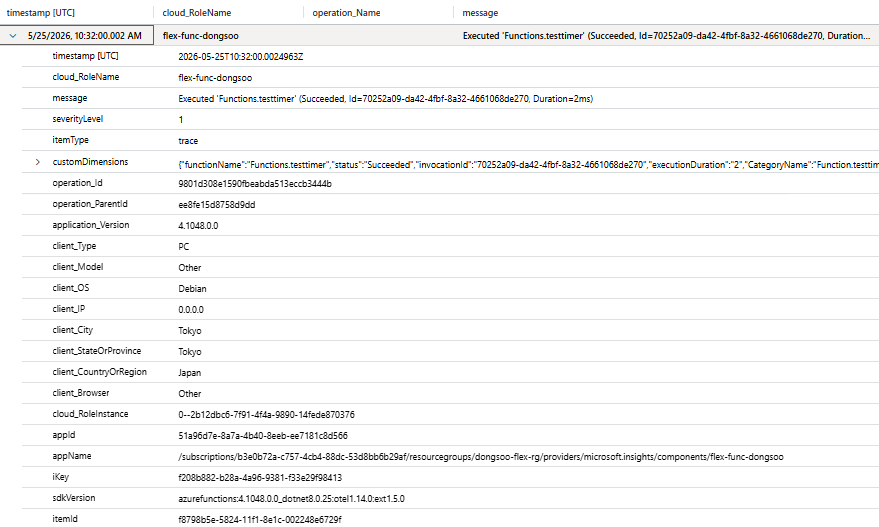
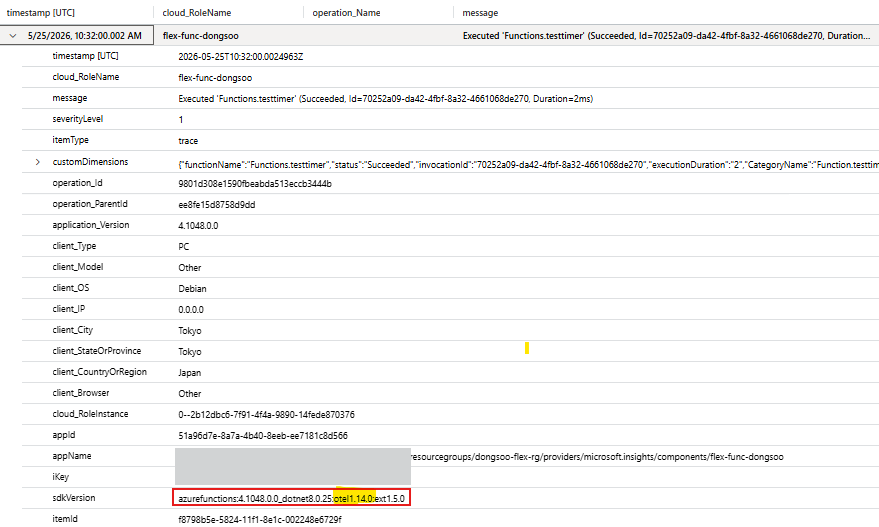
post: update openTelemetry post

Changed region(s): [[0.1843, 0.8501, 0.4915, 0.9715]]

diff --git a/src/data/blog/openTelemetry/index.md b/src/data/blog/openTelemetry/index.md
@@ -3,25 +3,25 @@ title: Azure Functions - Open Telemetry
 description: Azure Funtions 에서 Open Telemetry 를 활용해 로그 보내기
 pubDatetime: 2026-05-25T09:00:00+09:00 
 category: cloud  
-draft: true  
+draft: false
 tags:
   - Azure Functions
 ---
 
-# Intro
-Azure Functions 는 Language Woker process 와 host process 각각에서 함수 실행에 대한 Telemetry 데이터 (로그 등)을 생성한다. 둘 다 기본적(by default)으로 Application Insights SDK (AI SDK) 를 사용해서 Application Insights 로 보낸다. 
-하지만, 이 방식은 종종 인스턴스의 재기동 등의 동작으로 누락되는 경우가 있다.
-이에 대처하기 위해서 AI SDK 가 아닌, OpenTelemetry(OTEL) 를 사용해서 Telemetry 데이터를 보내는 방식을 설명해보고자 한다.
+## Intro
+Azure Functions 는 Language Woker process 와 host process 각각에서 함수 실행에 대한 Telemetry 데이터 (로그 등)을 생성한다. 둘 다 기본적(by default)으로 Application Insights SDK (AI SDK) 를 사용해서 `Worker -> Host -> Application Insights` 파이프라인을 타고 데이터를 보낸다. 
 
-* 둘 다 설정하거나, 한쪽만 설정해서 한쪽은 Applicaiton Insights SDK, 다른 쪽은 OTEL을 사용하도록 설정할 수 있다.
+하지만, 이 방식은 telemetry 데이터를 인메모리 버퍼에 모았다가 일정 주기 (보통 30초) 로 Flush 하기 때문에, Azure Functions 의 인스턴스가 재기동/교체되는 경우 로그가 누락될 수가 있다.
+한편, AI SDK 가 아닌, OpenTelemetry(OTEL) 를 사용하면, Worker 에서 Host를 경유하지 않고 OTEL endpoint 로 송신하기 떄문에 이를 어느정도 방지할 수 있다.
 
-# 장점
-1. OpenTelemetry 형식이라서 AI 외에도 OpenTelemetry 를 호환하는 다른 엔드포인트로도 보낼 수 있다.
-2. 
+## 장점
+1. **벤더 중립적 표준 형식**: Application Insights 뿐 아니라 Jaeger, Grafana Tempo, Datadog 등 OTEL 호환 백엔드로 자유롭게 송신 가능
+2. **Host 와 Worker telemetry 간 상관관계 개선**: 양쪽을 모두 OTEL 로 설정하면 trace 와 log 의 correlation 이 일관되게 처리됨
+3. **Worker 가 Host 를 경유하지 않고 직접 송신 가능**: Worker 측에서 OTEL 을 활성화하면 Host 파이프라인을 거치지 않고 OTEL Exporter 로 바로 전송 (단, 중복 방지를 위해 `PYTHON_APPLICATIONINSIGHTS_ENABLE_TELEMETRY=true` 환경변수 설정 필요)
 
-# 방법
+## 방법
 1. Host process 에 대해 설정 
-(Host 레벨에서만 OTEL, Language Woker 는 여전히 AI SDK.)
+(Host 레벨에서만 OTEL, Language Woker 는 Host 로 포워드되기 때문에 OTEL 을 타게된다.)
 host.json에 아래 추가
 ```json
 {
@@ -30,110 +30,116 @@ host.json에 아래 추가
   ...
 }
 ```
-5/25 19:20 JST 다시 배포
 
-
-
-
-![alt text](image.png)
-
-2. Language Woker process 에 대해 설정
+2. Language Worker process 에 대해 설정
 (Language Woker 에만 OTEL, Host 레벨에서는 여전히 AI SDK.)
 
+    1. requests.txt
+    ```python
+    azure-monitor-opentelemetry
+    ```
+    2. function_app.py
+    ```python
+    from azure.monitor.opentelemetry import configure_azure_monitor 
 
+    configure_azure_monitor() 
+    ```
 
+> 참고: [Use OpenTelemetry with Azure Functions (Microsoft Learn)](https://learn.microsoft.com/en-us/azure/azure-functions/opentelemetry-howto?tabs=app-insights%2Cihostapplicationbuilder%2Cmaven&pivots=programming-language-python#enable-opentelemetry-in-the-functions-host)
 
+## Question
+위의 "방법" 에서 보면 Host / Worker 각각의 설정방식이 있다. 이 때, 별도로 설정하게 되면 어떤 일이 발생할까?
+직접 움직임을 검증해보자.
 
-
-
-#참고문서
-https://learn.microsoft.com/en-us/azure/azure-functions/opentelemetry-howto?tabs=app-insights%2Cihostapplicationbuilder%2Cmaven&pivots=programming-language-python#enable-opentelemetry-in-the-functions-host
-
-
-
-----------
-
-현시점 내이해
-보통이라면, Worker 레벨에서 로그는 Host 파이프라인을 통해 Application Insights 로 전달된다.
-따라서 host.json 에서 "telemetryMode": "OpenTelemetry", 하면 Host 파이프라인은 AI SDK 를 사용하는 것이 아니라 OTEL Exporter를 사용하게 된다.
-또, Worker 레벨에서 코드상에 configure_azure_monitor() 를 추가하면, Worker 프로세스는 Host 의 파이프라인을 사용하지 않고 독립적인 파이프라인을 사용하기 때문에 host.json 에 "telemetryMode": "OpenTelemetry" 가 설정되어있지 않다고 하더라도 저 혼자 Otel 을 쓰게 된다.
-둘 다 쓰면 둘다 Otel 쓰게 된다. 
-
-# 환경 구성
+## 검증
+- 환경 구성
 Python 런타임 스택
-1분 간격으로 돌아가는 timer trigger를 사용 
+1분 간격으로 돌아가는 timer trigger를 사용. 실행 시, info 레벨의 로그 "Python timer trigger function ran at 시간" 출력
+```python
+import datetime
+import logging
 
+app = func.FunctionApp()
+
+@app.function_name(name="testtimer")
+@app.timer_trigger(
+    schedule="0 */1 * * * *",
+    arg_name="mytimer",
+    run_on_startup=False,
+    use_monitor=True,
+)
+def testtimer(mytimer: func.TimerRequest) -> None:
+    utc_timestamp = datetime.datetime.now(datetime.timezone.utc).isoformat()
+
+    if mytimer.past_due:
+        logging.info("The timer is past due!")
+
+    logging.info("Python timer trigger function ran at %s", utc_timestamp)
+```
+
+조회시 사용한 kql
 ```kql
 traces
 | project-reorder timestamp, cloud_RoleName, operation_Name, message
 | order by timestamp desc
 ```
-# 결과 
-1. 시나리오1. 둘 다 안켬.
-worker 상의 모든 로그는 host 로 forward되고 host 의 파이프라인을 탐.
-이때 host는 AI SDK 를 기본적으로 사용하고 있기 때문에 둘다 OTEL 이 아니게 됨.
+
+- 결과 
+1. 시나리오 1 - 아무 설정을 하지 않은 경우
+   - Worker 상의 모든 로그는 Host 로 forward 되고 host 의 파이프라인을 탄다.
+   - 이때 host는 AI SDK 를 기본적으로 사용하고 있기 때문에 둘다 OTEL 이 아니게 된다.
+   - sdkVersion : azurefunctions 가 되어있다.
+
+   host 수준 로그 예시
+   ![alt text](image-1.png)
+   worker 수준 로그 예시
+   ![alt text](image-2.png)
 
 
-host 수준 로그 예시
-![alt text](image-1.png)
-app 수준 로그 예시
-![alt text](image-2.png)
+2. 시나리오 2 - host.json 만 설정.
+   - worker 상의 모든 로그는 host 로 forward되고 host 의 파이프라인을 탐.
+   - 이때 host는 OTEL Exporter를 사용하고 있기 때문에 둘다 OTEL 이 됨.
+   - sdkVersion 에 otel 이 추가되어있다.
+
+   host 수준 로그 예시
+   ![alt text](image-3.png)
+   worker 수준 로그 예시
+   ![alt text](image-4.png)
+
+3. 시나리오 3 - worker 상에서만 설정. (host.json 에는 OTEL 설정 없음)
+   - worker 는 자체적으로 파이프라인을 형성해 host 우회한다.
+   - 이 때, worker, host 둘 다 개별 파이프라인을 형성하기 때문에 로그가 중복이 생기며, `PYTHON_APPLICATIONINSIGHTS_ENABLE_TELEMETRY=true` 환경변수 설정이 필요해진다.
+
+   함수 실행 시, 어플리케이션 상의 로그가 worker, host 에서 동시에 생성됨 
+   ![alt text](image-5.png)
+   host는 여전히 sdkVersion이 azurefunction 이다. 
+   ![alt text](image-6.png)
+   worker 상의 로그는 otel 이다.
+   ![alt text](image-7.png)
+
+   host 수준 로그 예시
+   ![alt text](image-8.png)
 
 
-2. 시나리오2. host.json 만 켬.
-worker 상의 모든 로그는 host 로 forward되고 host 의 파이프라인을 탐.
-이때 host는 OTEL Exporter를 사용하고 있기 때문에 둘다 OTEL 이 됨.
-traces 테이블에서보는 host 수준 로그 예시
+4. 시나리오 4 - 둘 다 설정
+   - 둘 다 otel 이 확인된다.
 
-host 수준 로그 예시
-![alt text](image-3.png)
- 수준 로그 예시
-![alt text](image-4.png)
-
-3. 시나리오3. application 상에서만 켬. (host.json 에는 OTEL 설정 없음)
-19:56 JST
-worker 는 자체적으로 파이프라인을 형성해 host 우회한다.
-
-두 로그가 동시에 생성됨
-![alt text](image-5.png)
-
-하나는 sdkVersion이 azurefunction으로 
-![alt text](image-6.png)
-
-다른 하나는, otel이 있다.
-![alt text](image-7.png)
-
-또, Executing (호스트 수준) 의 경우는 azurefunction이 되어있음.
-![alt text](image-8.png)
+   호스트 수준의 로그
+   ![alt text](image-9.png)
+   이제 워커 수준의 로그
+   ![alt text](image-10.png)
+   또 다른 호스트 수준의 로그를 보자
+   ![alt text](image-11.png)
 
 
-4. 둘다 켜볼까?
+5. 마지막으로 `PYTHON_APPLICATIONINSIGHTS_ENABLE_TELEMETRY=true` 환경변수 설정을 검증해보면 아래와 같다.
 
-호스트 수준의 로그를 보자.
-![alt text](image-9.png)
+   - 시나리오 3 에서 함수 실행 상의 로그 `Python timer trigger function ran at YYYY-MM-DD` .. 가 호스트 수준에서, 워커수준에서 전송되기 때문에 2회씩 나타난다.
+   - 그이유는 워커수준에서의 로그는 일단 exporter로 otel 파이프라인을 타면서도, 또 호스트 파이프라인도 동시에 타기 때문이다.
 
-이제 워커 수준의 로그를 보자
-![alt text](image-10.png)
+   ![alt text](image-12.png)
 
-또 다른 호스트 수준의 로그를 보자
-![alt text](image-11.png)
-
-
-5. 자 이제 환경변수를 추가해보자.
-자꾸 Python timer trigger function ran at YYYY-MM-DD .. 라는 로그가 2번씩 호스트 수준에서, 워커수준에서 나타난다.
-
-그이유는 워커수준에서의 로그는 일단 exporter로 otel 파이프라인을 타면서도, 또 호스트 파이프라인도 동시에 타기 떄문이다.
-
-![alt text](image-12.png)
-
-traces
-| project-reorder timestamp, cloud_RoleName, operation_Name, message
-| where message contains "ran at"
-| order by timestamp desc
-
-그동안 동시에 2개씩 생성된 것이 이제 1개씩만 생성됨.
-
-![alt text](image-13.png)
-
-그리고 워커레벨에서 생성되는 거임.
-![alt text](image-14.png)
+   - 설정 후 변화를 확인해보면, 그동안 동시에 2개씩 생성된 것이 이제 1개씩만 생성된다.
+   ![alt text](image-13.png)
+   - sdkVersion 이 `fli_py3.xx` 인 것으로 보아, Worker 레벨에서 생성되는 것만 남고, host 레벨에서는 더 이상 생성되지 않은 것을 볼 수 있다.
+   ![alt text](image-14.png)
